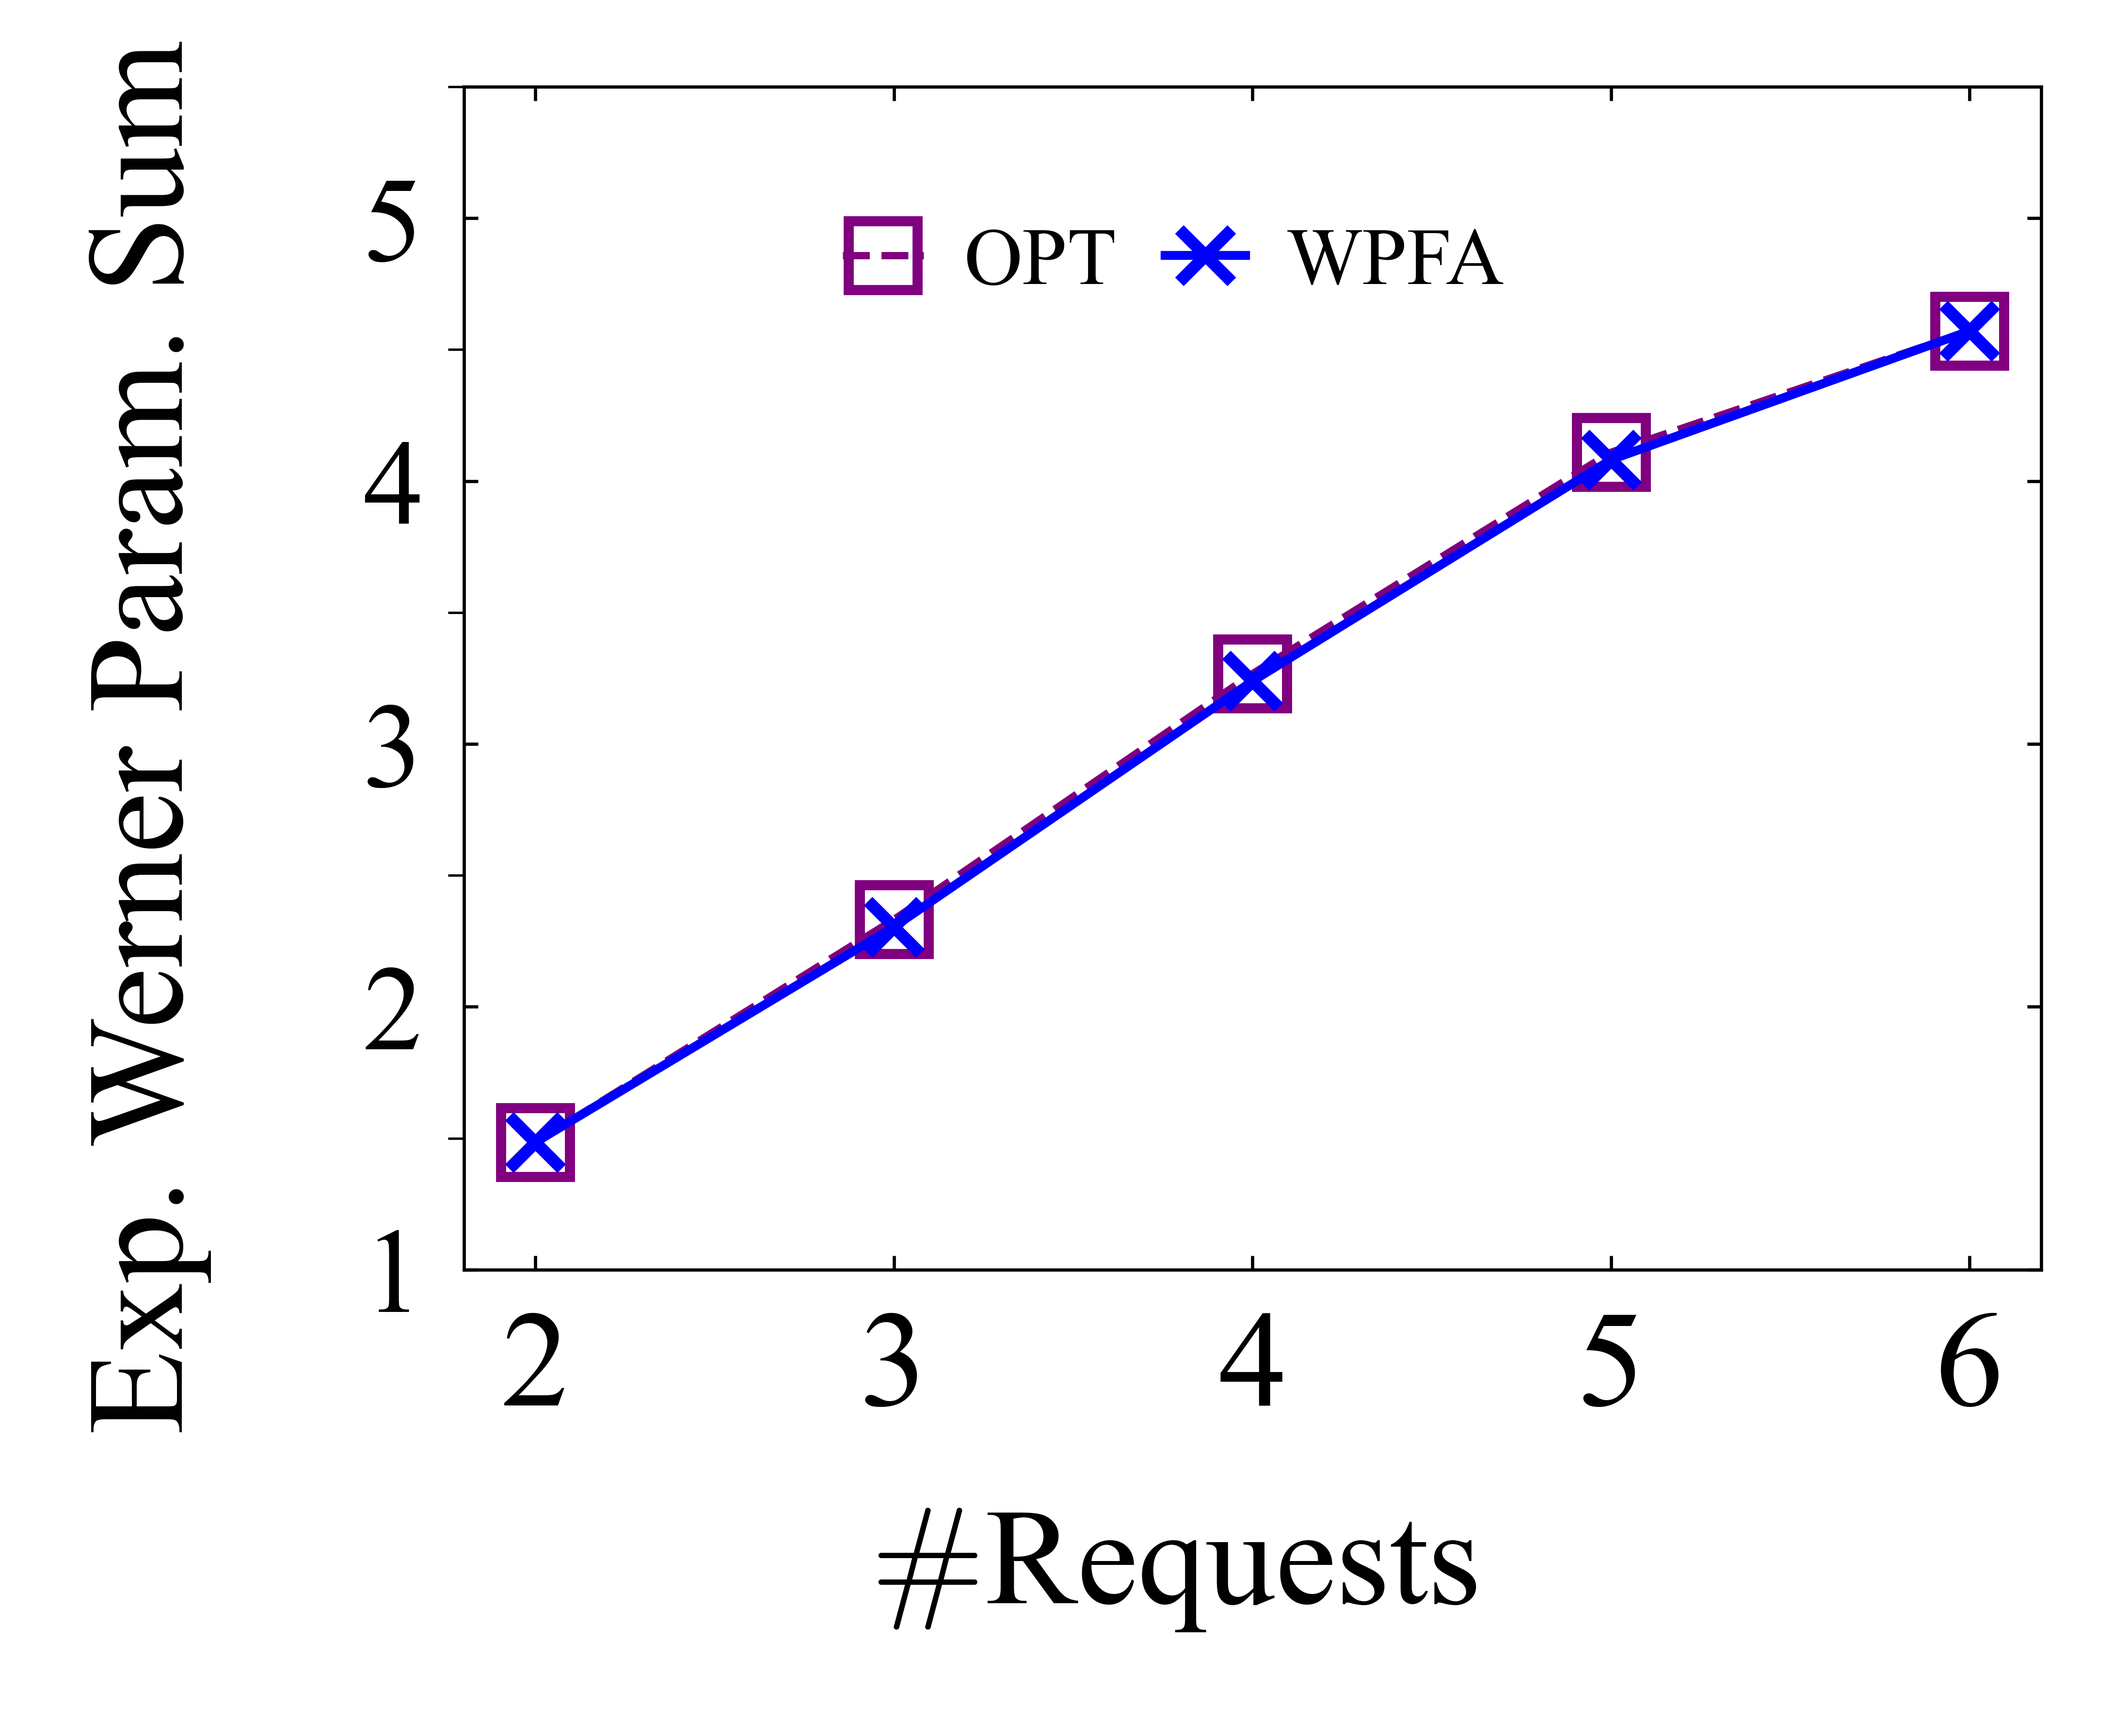
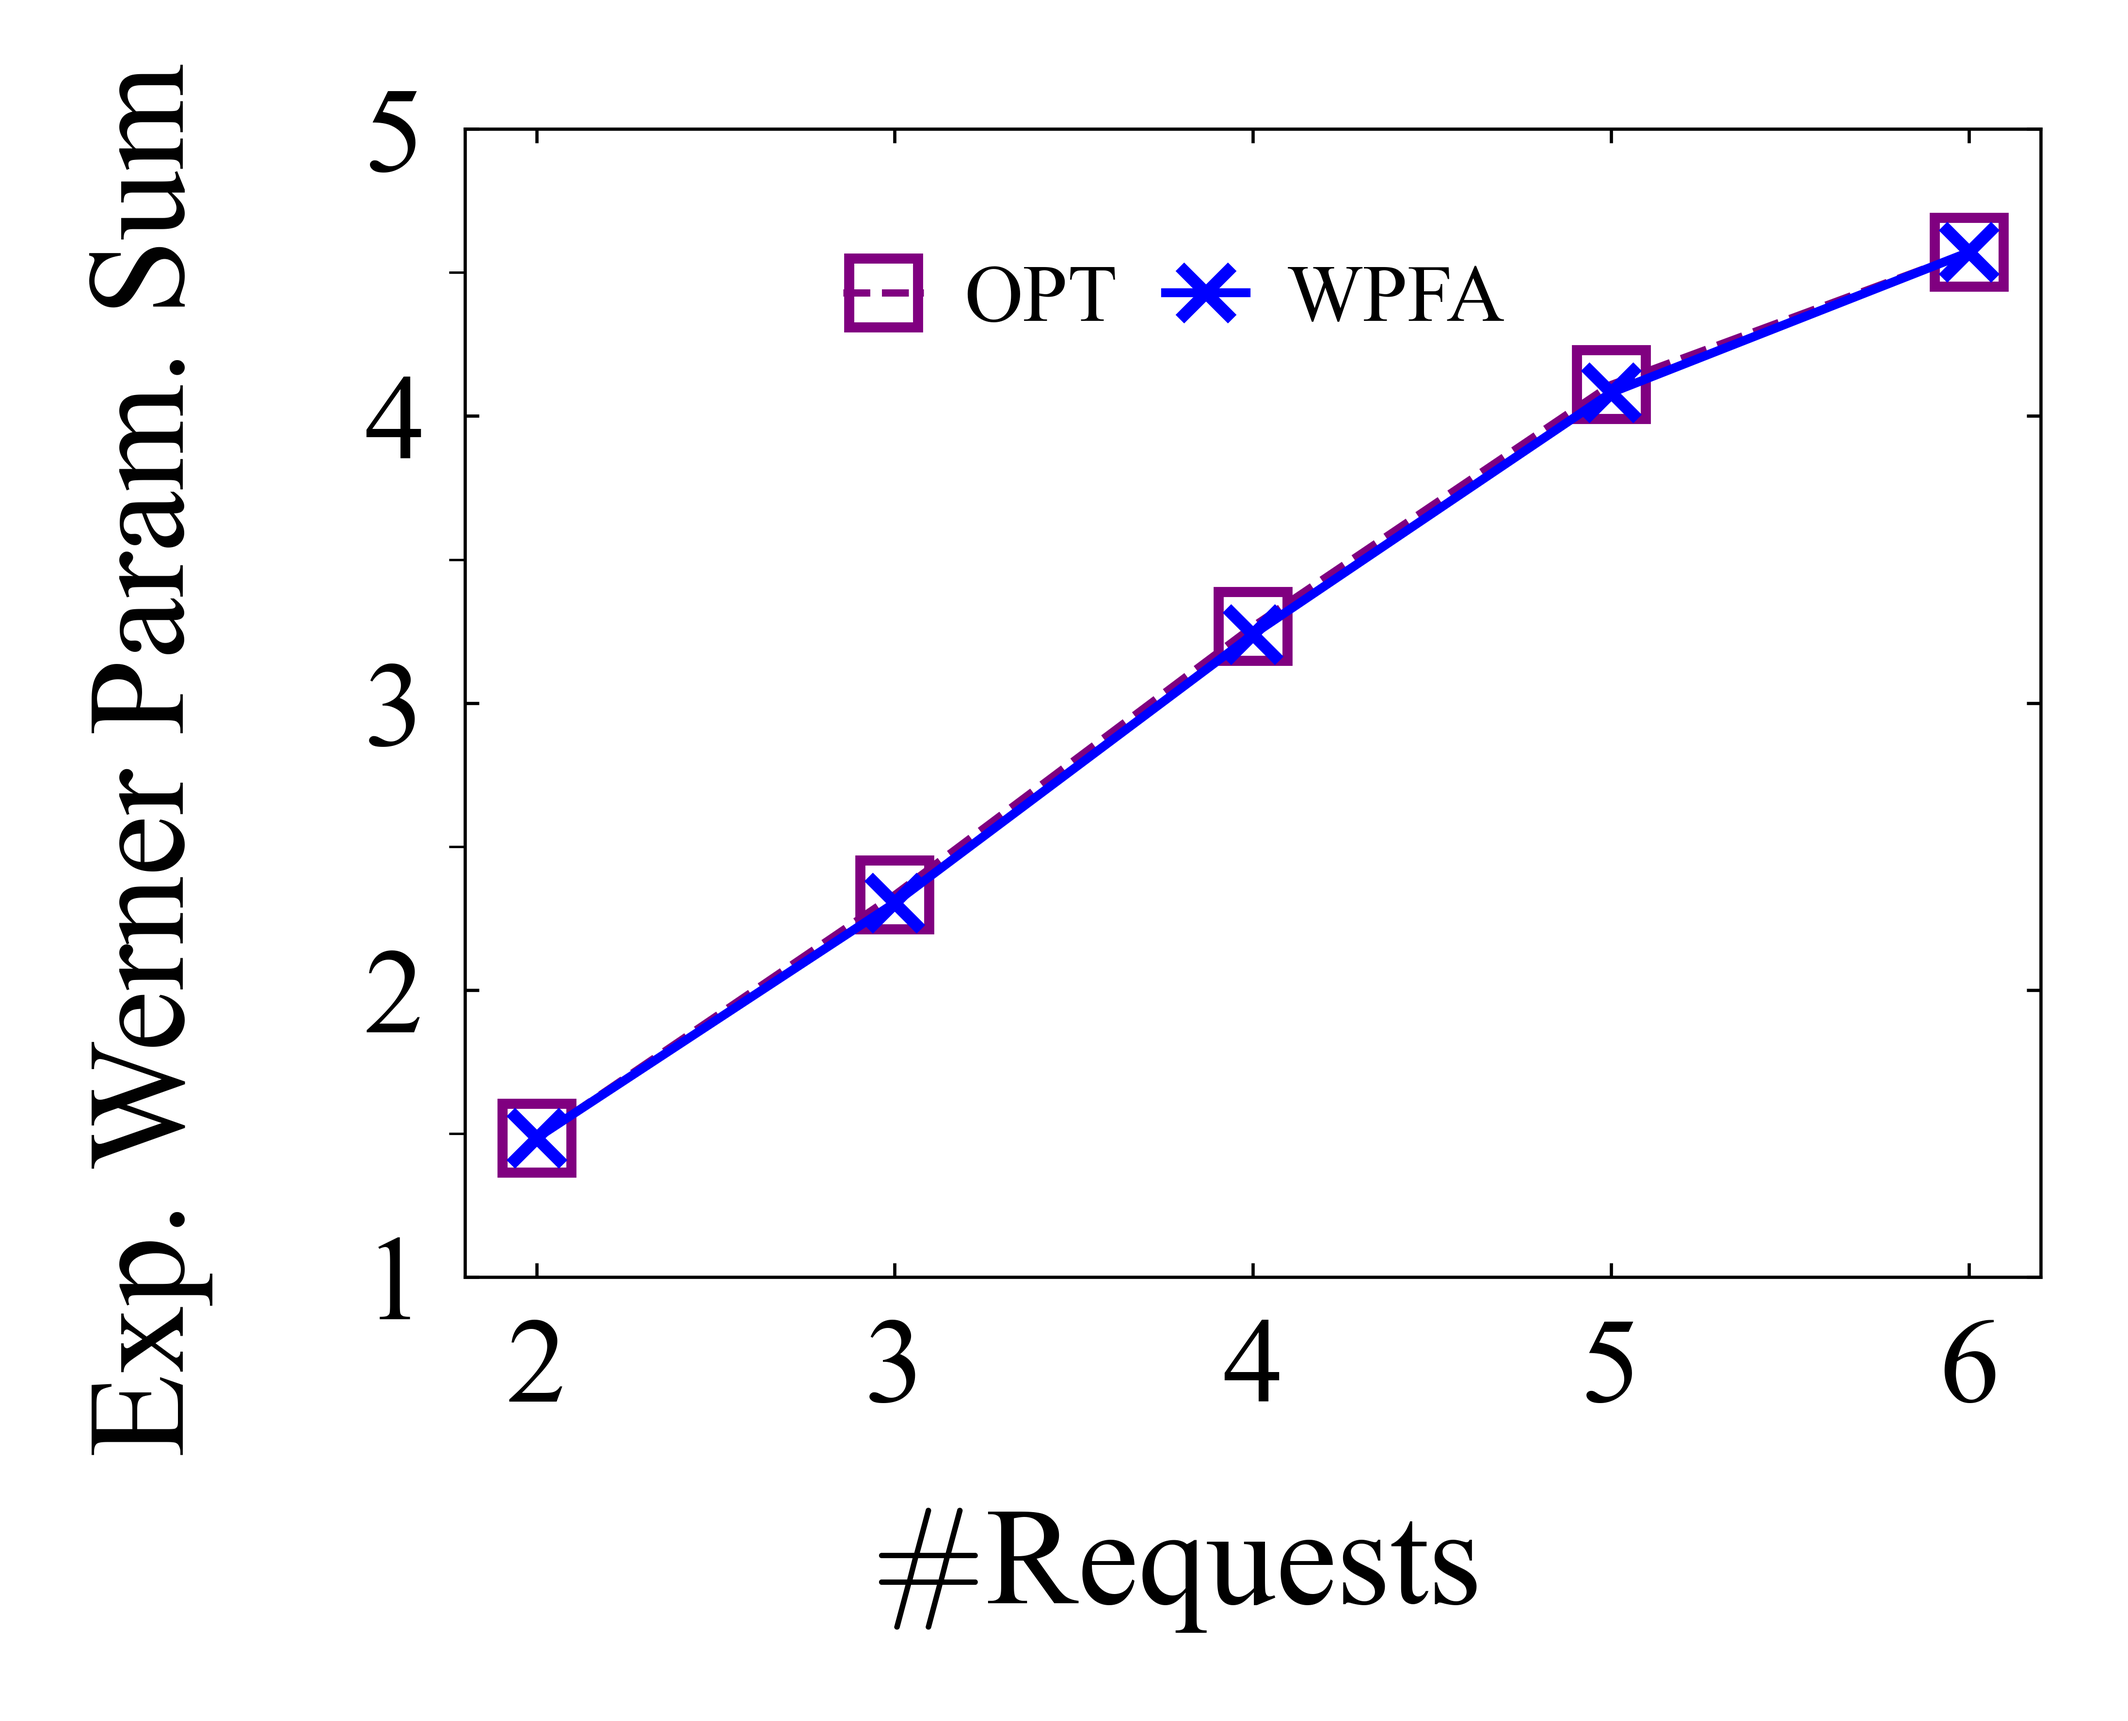
fix small_scale

diff --git a/plot/ChartGenerator.py b/plot/ChartGenerator.py
@@ -225,6 +225,43 @@ class ChartGenerator:
         },
     }
 
+    # Manual Y-axis controls used only by SmallScale_*.ans figures.
+    #
+    # Tuple format:
+    #   (minimum, maximum, minor_tick_interval, major_label_every_n_ticks)
+    # Use "auto" for any individual figure to restore automatic scaling.
+    # Runtime values below are in seconds even when the axis displays x10^-3.
+    _SMALL_SCALE_Y_INTERVALS = {
+        'fidelity_gain': {
+            'request_cnt': (1, 5, 0.5, 2),
+            'fidelity_threshold': (1.5, 4.0, 0.25, 2),
+            'tao': (3, 3.5, 0.25, 1),
+            'swap_prob': (2.75, 3.5, 0.25, 1),
+            'avg_memory': (1.5, 4.0, 0.25, 2),
+        },
+        'succ_request_cnt': {
+            'request_cnt': (0, 6, 0.5, 2),
+            'fidelity_threshold': (1.5, 4.5, 0.25, 2),
+            'tao': (1.5, 4.5, 0.25, 2),
+            'swap_prob': (1.5, 4.5, 0.25, 2),
+            'avg_memory': (1.5, 4.5, 0.25, 2),
+        },
+        'actual_req_cnt': {
+            'request_cnt': (0, 6, 0.5, 2),
+            'fidelity_threshold': (0, 5, 0.5, 2),
+            'tao': (0, 5, 0.5, 2),
+            'swap_prob': (0, 5, 0.5, 2),
+            'avg_memory': (0, 5, 0.5, 2),
+        },
+        'runtime': {
+            'request_cnt': (0, 0.010, 0.001, 2),
+            'fidelity_threshold': (0, 0.010, 0.001, 2),
+            'tao': (0, 0.010, 0.001, 2),
+            'swap_prob': (0, 0.010, 0.001, 2),
+            'avg_memory': (0, 0.010, 0.001, 2),
+        },
+    }
+
     _AXIS_NAME = {
         "request_cnt": r"$\#$Requests", "time_limit": "$| T |$",
         "avg_memory": "Average Memory Limit", "mem_vary": "Memory Variation",
@@ -269,11 +306,12 @@ class ChartGenerator:
 
     def __init__(self, dataName: str, x_key: str, y_key: str, label_every: int|None = None):
         path = os.path.join('..', 'data', 'ans', dataName)
+        is_small_scale = os.path.basename(dataName).startswith("SmallScale_")
         if not os.path.exists(path):
             print(f"[WARN] file doesn't exist: {os.path.abspath(path)}")
             return
 
-        if os.path.basename(dataName).startswith("SmallScale_"):
+        if is_small_scale:
             # main_smallscale writes exactly two columns in this order.
             self._ALGO_NAMES = ["OPT", "WPFA"]
             self._DRAW_ORDER = [0, 1]
@@ -372,6 +410,21 @@ class ChartGenerator:
             x_labels = [f"{v:g}" if isinstance(v, float) else str(v) for v in tmp]
         else:
             x_labels = [str(v) for v in x_vals]
+
+        if is_small_scale:
+            # Keep the compact few-point SmallScale axes readable.  The ANS
+            # files use full double precision, which is useful for replay but
+            # far too verbose for tick labels.
+            if x_key in ("request_cnt", "avg_memory"):
+                x_labels = [
+                    f"{int(round(float(value)))}" for value in x_vals
+                ]
+            elif x_key in ("fidelity_threshold", "swap_prob"):
+                x_labels = [f"{float(value):.2f}" for value in x_vals]
+            elif x_key == "tao":
+                x_labels = [
+                    f"{float(value) * 1000.0:.1f}" for value in x_vals
+                ]
 
         if x_key == "mem_vary":
             varied_labels = []
@@ -512,15 +565,22 @@ class ChartGenerator:
         )
 
         # 自動 Y 軸刻度
-        is_small_scale = os.path.basename(dataName).startswith("SmallScale_")
-        cfg = (
-            "auto"
-            if is_small_scale
-            else self._Y_INTERVALS[y_key].get(x_key, "auto")
-        )
+        if is_small_scale:
+            cfg = self._SMALL_SCALE_Y_INTERVALS.get(y_key, {}).get(x_key, "auto")
+        else:
+            cfg = self._Y_INTERVALS[y_key].get(x_key, "auto")
         manual_y_range = cfg != "auto"
         if cfg == "auto":
-            Ystart, Yend, Yinterval = self._auto_y_range(min_data, max_data, target_ticks=7, padding=0.05)
+            range_min, range_max = min_data, max_data
+            if is_small_scale and min_data >= 0 and max_data > 0:
+                # A five-percent data-span pad makes almost-equal OPT/WPFA
+                # values look misleadingly far apart.  Match the visual
+                # breathing room of the original Greedy figures instead.
+                range_min = 0.0 if y_key == "runtime" else 0.60 * min_data
+                range_max = 1.20 * max_data
+            Ystart, Yend, Yinterval = self._auto_y_range(
+                range_min, range_max, target_ticks=7, padding=0.05,
+            )
             span = max(1e-12, Yend - Ystart)
             rough_labels = span / max(1e-12, Yinterval)
             label_step_factor = max(1, int(math.ceil(rough_labels / 7)))
@@ -551,8 +611,13 @@ class ChartGenerator:
             if top_needed > Yend:
                 Yend = top_needed
 
-        Xpow_disp_unit = " s" if x_key in ("tao", "entangle_time") else ""
-        Xlabel_text = self._AXIS_NAME.get(x_key, x_key) + self._gen_power_suffix(Xpow, Xpow_disp_unit)
+        if is_small_scale and x_key == "tao":
+            Xlabel_text = "Slot Duration (ms)"
+        elif is_small_scale and x_key == "avg_memory":
+            Xlabel_text = "Memory per Node"
+        else:
+            Xpow_disp_unit = " s" if x_key in ("tao", "entangle_time") else ""
+            Xlabel_text = self._AXIS_NAME.get(x_key, x_key) + self._gen_power_suffix(Xpow, Xpow_disp_unit)
         Ylabel_text = self._AXIS_NAME.get(y_key, y_key) + self._gen_power_suffix(Ypow, "")
 
         major_step = Yinterval * label_step_factor
@@ -579,10 +644,20 @@ class ChartGenerator:
             x_tick_fontsize = self._FONT_SIZE_BASE - 10
         elif x_key == "path_set":
             x_tick_fontsize = self._FONT_SIZE_BASE - 4
+        elif is_small_scale:
+            x_tick_fontsize = self._FONT_SIZE_BASE
         else:
             x_tick_fontsize = self._FONT_SIZE_BASE + 4
+
+        tick_indices = list(range(len(x_labels)))
+        if is_small_scale and len(tick_indices) > 5:
+            tick_step = int(math.ceil(len(tick_indices) / 5.0))
+            tick_indices = tick_indices[::tick_step]
+            if tick_indices[-1] != len(x_labels) - 1:
+                tick_indices.append(len(x_labels) - 1)
         plt.xticks(
-            ticks=range(len(x_labels)), labels=x_labels,
+            ticks=tick_indices,
+            labels=[x_labels[index] for index in tick_indices],
             fontsize=x_tick_fontsize
         )
         if is_categorical_bar:
@@ -674,9 +749,21 @@ if __name__ == "__main__":
         ),
     }
 
+    # Optional dataset selector, e.g.:
+    #   python ChartGenerator.py SmallScale
+    requested_datasets = {arg.lower() for arg in sys.argv[1:]}
+    valid_datasets = {name.lower() for name in datasets}
+    unknown_datasets = requested_datasets - valid_datasets
+    if unknown_datasets:
+        choices = ", ".join(datasets)
+        unknown = ", ".join(sorted(unknown_datasets))
+        raise SystemExit(f"Unknown dataset: {unknown}. Choose from: {choices}")
+
     OVERRIDE_LABEL_EVERY = None
 
     for Path, (dataset_xlabels, dataset_ylabels) in datasets.items():
+        if requested_datasets and Path.lower() not in requested_datasets:
+            continue
         for X in dataset_xlabels:
             for Y in dataset_ylabels:
                 fname = f"{Path}_{X}_{Y}.ans"

diff --git a/src/main_smallscale.cpp b/src/main_smallscale.cpp
@@ -151,8 +151,8 @@ const vector<TopologySpec>& topologies() {
 const vector<double>& sweep_values(const string& sweep) {
     static const map<string, vector<double>> values = {
         {"request_cnt", {2, 3, 4, 5, 6}},
-        {"fidelity_threshold", {0.76, 0.78, 0.80, 0.82, 0.84}},
-        {"tao", {0.0010, 0.0015, 0.0020, 0.0025, 0.0030}},
+        {"fidelity_threshold", {0.75, 0.80, 0.85, 0.90}},
+        {"tao", {0.0015, 0.0020, 0.0025, 0.0030, 0.0035}},
         {"swap_prob", {0.70, 0.75, 0.80, 0.85, 0.90}},
         {"avg_memory", {2, 3, 4, 5, 6}},
     };
